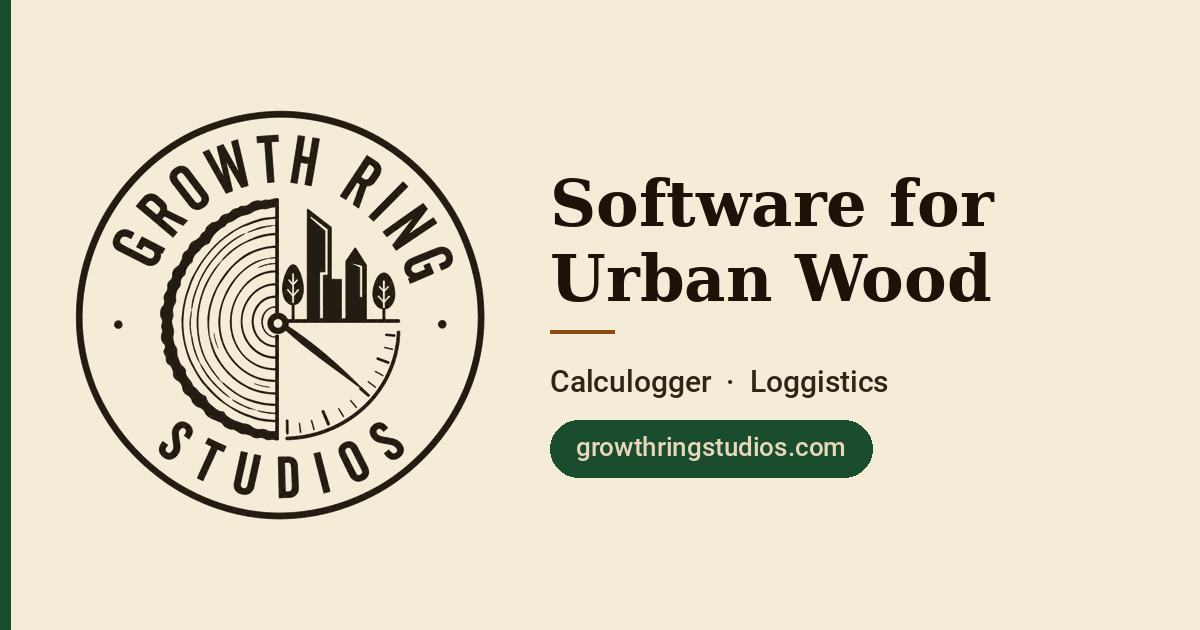
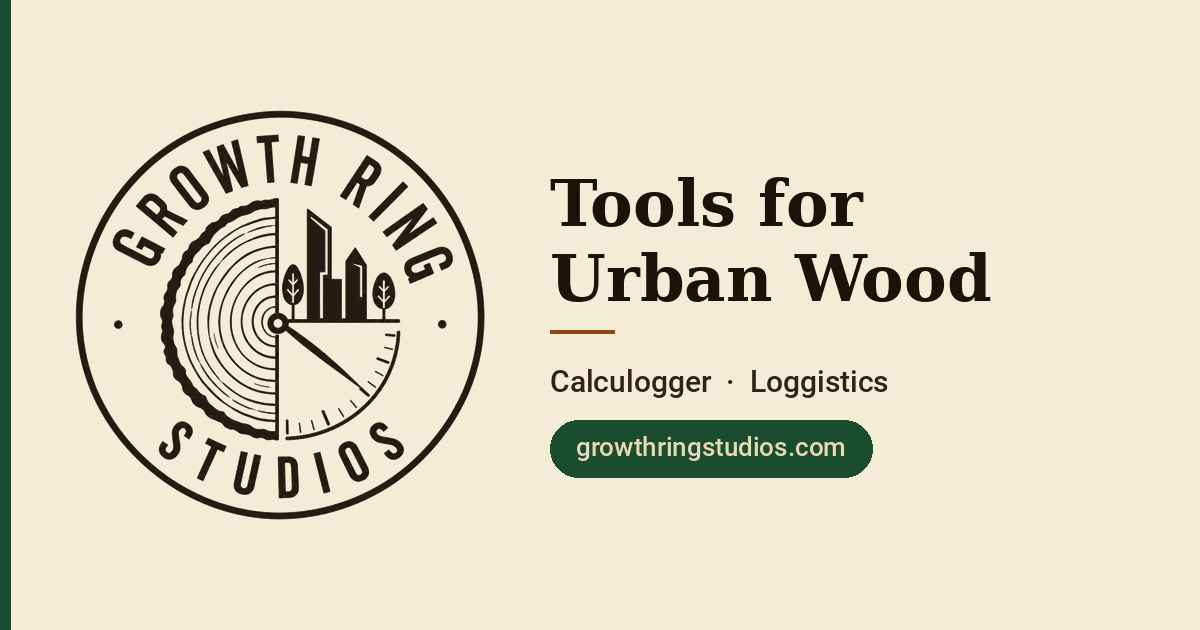
Use "tools" instead of "software" for future hardware flexibility
Meta description and OG image headline updated so branding doesn't
box out planned hardware products.

Changed region(s): [[0.4625, 0.2714, 0.8325, 0.3619]]

diff --git a/index.html b/index.html
@@ -4,7 +4,7 @@
 <meta charset="UTF-8">
 <meta name="viewport" content="width=device-width, initial-scale=1.0">
 <title>Growth Ring Studios — Urban Wood Tools</title>
-<meta name="description" content="Growth Ring Studios builds software for urban wood — Calculogger's offline wood calculators and Loggistics chain-of-custody tracking for sawyers and arborists.">
+<meta name="description" content="Growth Ring Studios builds tools for urban wood — Calculogger's offline wood calculators and Loggistics chain-of-custody tracking for sawyers and arborists.">
 <meta property="og:type" content="website">
 <meta property="og:site_name" content="Growth Ring Studios">
 <meta property="og:url" content="https://growthringstudios.com/">